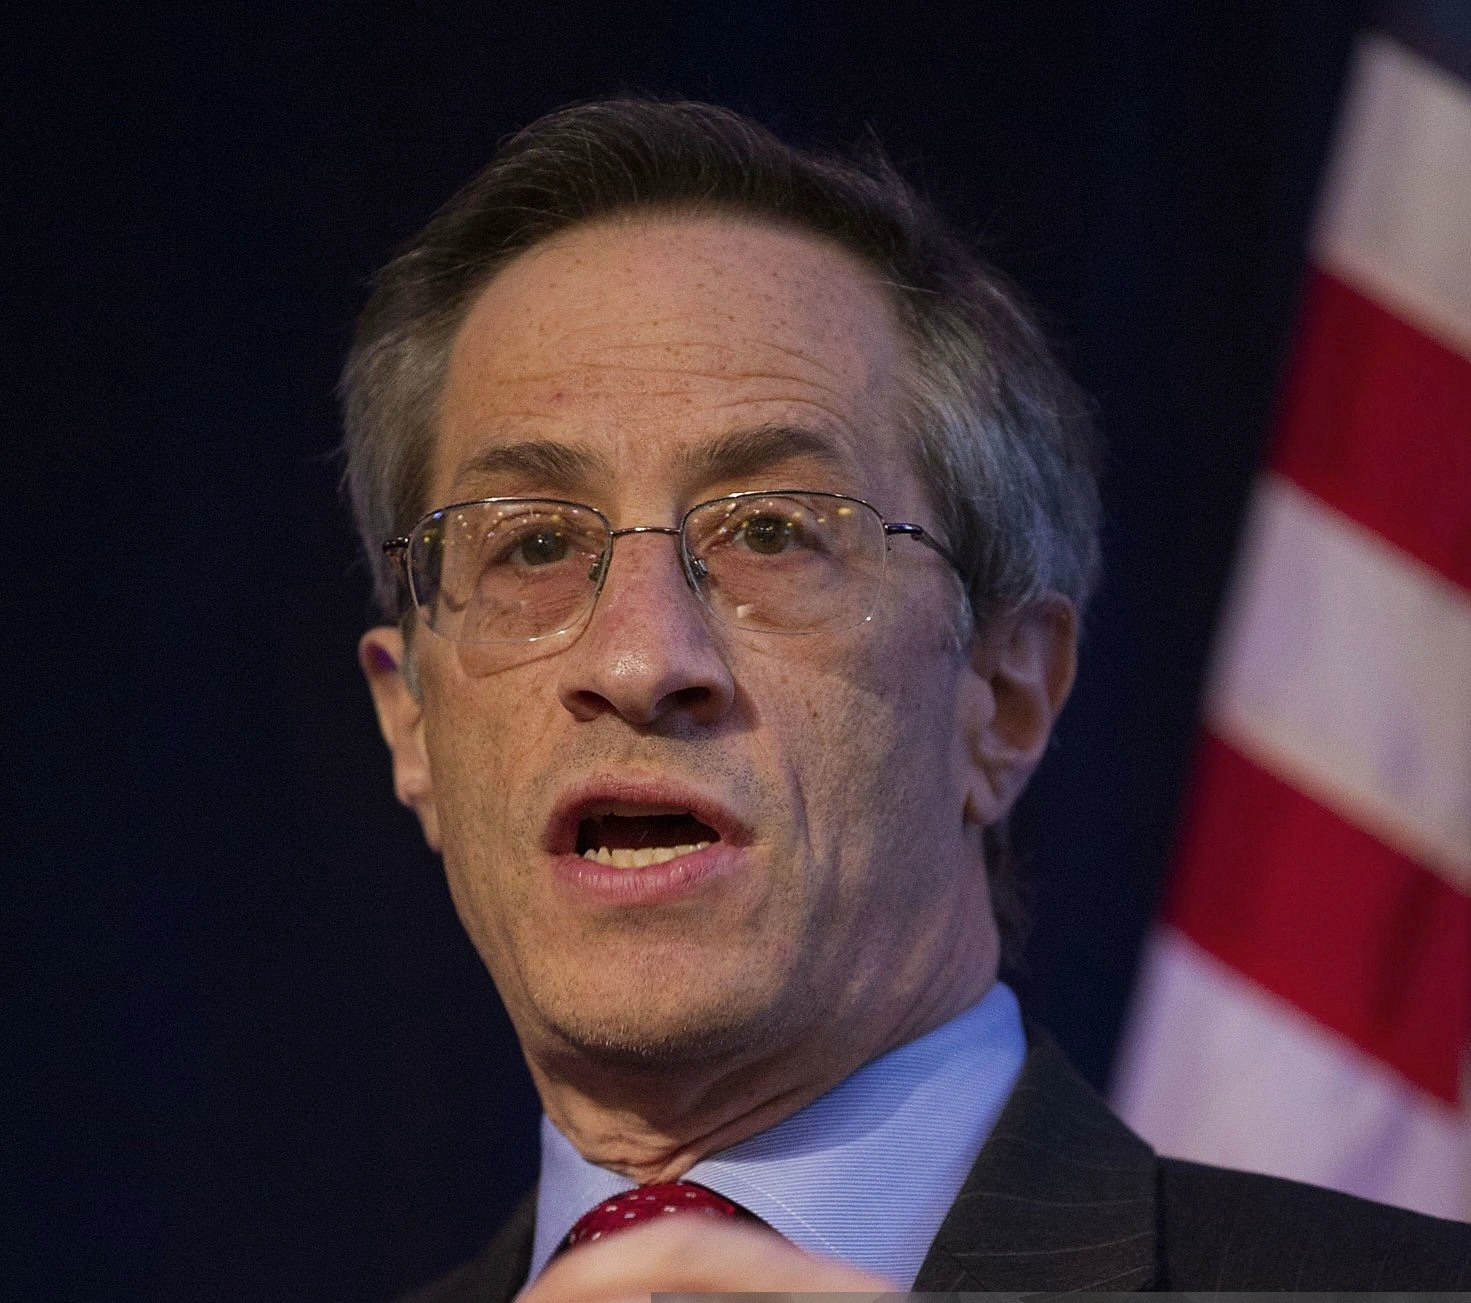
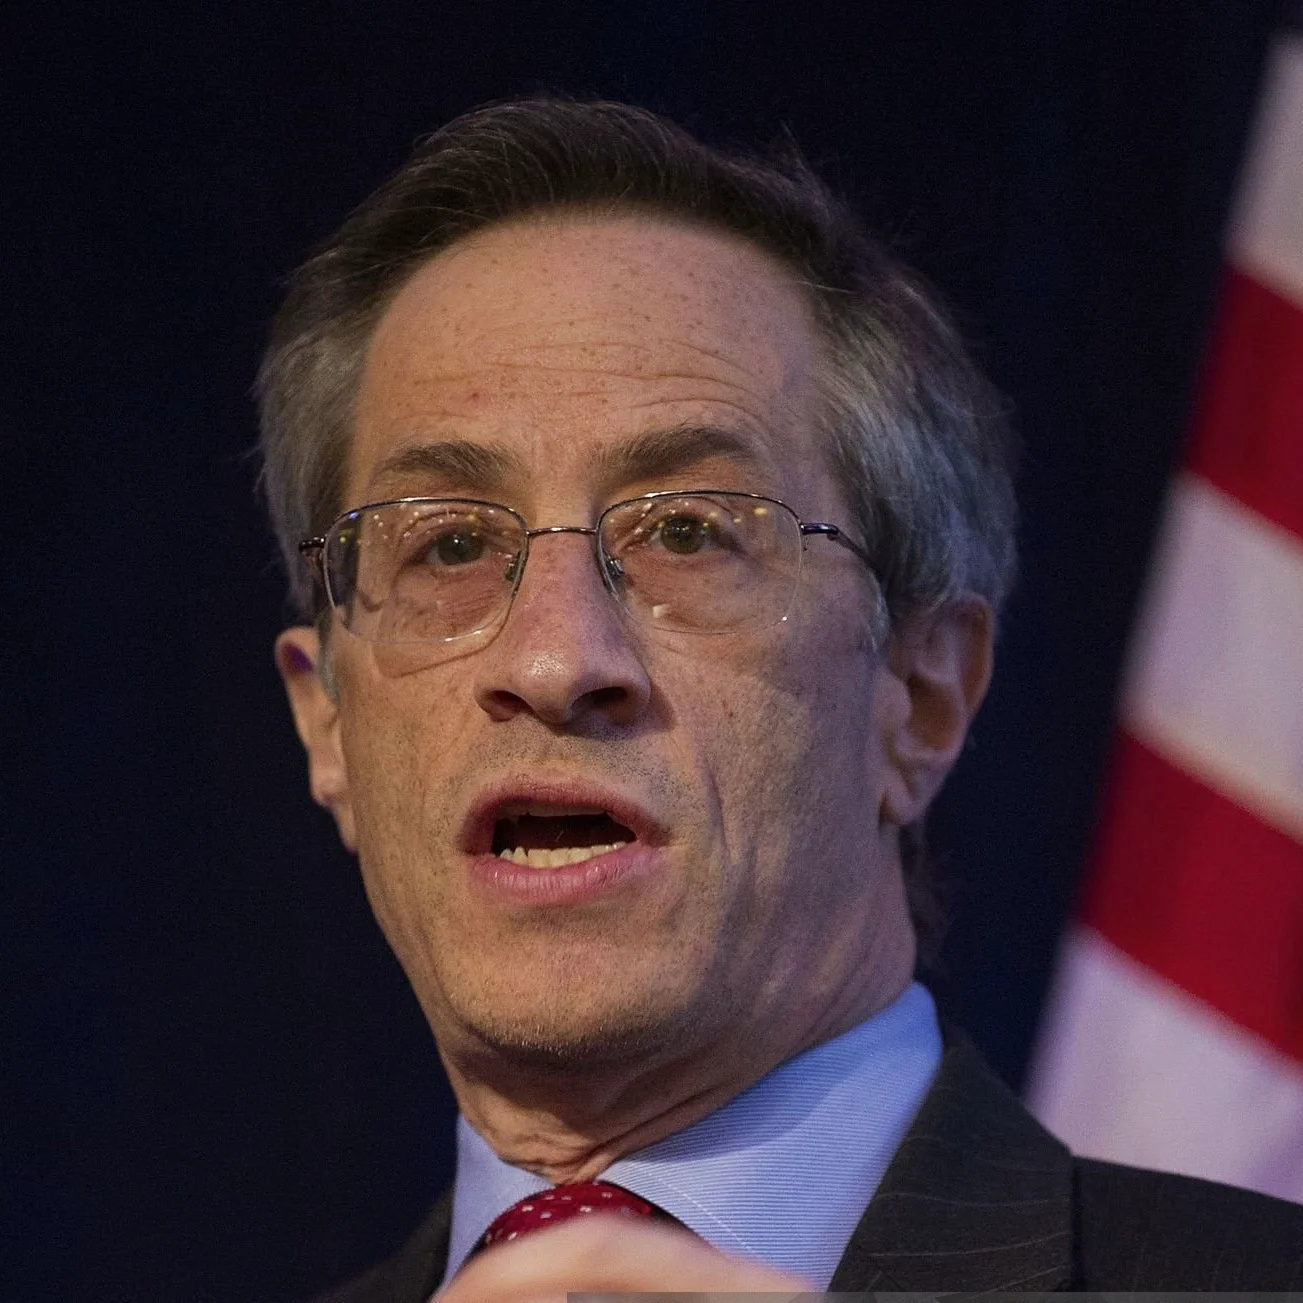
Update hero photo and player card images
- Set MEBr3.webp as top hero photo (replaces MBBS1.webp)
- Add Robert Giacovas.webp to Card 4 (replaces initials RAG)
- Add Lynn Judell.webp to Card 5 (replaces initials LEJ)
- Center-crop Alexis Kaminsky Bleich.webp to square (1000×714 → 714×714)
- Center-crop Robert Giacovas.webp to square (1471×1303 → 1303×1303)
- Enforce square aspect-ratio on all 5 player-card photo areas via CSS
- Update og:image, twitter:image, and ld+json image meta to MEBr3.webp

diff --git a/index.html b/index.html
@@ -12,7 +12,7 @@
 <meta property="og:type" content="article">
 <meta property="og:title" content="The Man Who Shorted $23 Million He Never Owned — The Bleich Files">
 <meta property="og:description" content="Public records investigation: $3M FINRA penalty, 295M naked-shorted shares, Lehman Brothers liquidity strategist now running a $578M fund. Every claim sourced.">
-<meta property="og:image" content="https://grossklein.github.io/MB3BLDDE/MBBS1.webp">
+<meta property="og:image" content="https://grossklein.github.io/MB3BLDDE/MEBr3.webp">
 <meta property="og:url" content="https://grossklein.github.io/MB3BLDDE/index.html">
 <meta property="og:site_name" content="The Bleich Files">
 
@@ -20,7 +20,7 @@
 <meta name="twitter:card" content="summary_large_image">
 <meta name="twitter:title" content="The Man Who Shorted $23 Million He Never Owned">
 <meta name="twitter:description" content="$3M FINRA penalty. 295M naked-shorted shares. Lehman Brothers liquidity strategist. $578M fund. Every claim sourced from public records.">
-<meta name="twitter:image" content="https://grossklein.github.io/MB3BLDDE/MBBS1.webp">
+<meta name="twitter:image" content="https://grossklein.github.io/MB3BLDDE/MEBr3.webp">
 
   <link rel="stylesheet" href="styles.css">
 <link rel="preconnect" href="https://fonts.googleapis.com">
@@ -39,7 +39,7 @@
   "publisher": { "@type": "Organization", "name": "The Bleich Files" },
   "datePublished": "2026-04-03",
   "dateModified": "2026-04-03",
-  "image": "https://grossklein.github.io/MB3BLDDE/MBBS1.webp",
+  "image": "https://grossklein.github.io/MB3BLDDE/MEBr3.webp",
   "mainEntityOfPage": "https://grossklein.github.io/MB3BLDDE/index.html"
 }
 </script>
@@ -152,7 +152,7 @@
     <!-- HERO IMAGE — full width -->
     <div class="hero-photo-full">
       <div class="photo-area photo-area-img">
-        <img src="MBBS1.webp" alt="Michael E. Bleich — $3,000,000 NASDAQ Fine, Sanctioned, The Naked Short" class="subject-photo" width="2048" height="1143" loading="eager">
+        <img src="MEBr3.webp" alt="Michael E. Bleich — $3,000,000 NASDAQ Fine, Sanctioned, The Naked Short" class="subject-photo" width="1221" height="589" loading="eager">
       </div>
       <div class="photo-caption">
         <strong>Michael E. Bleich</strong> · CIO &amp; Indirect Owner, EntryPoint Capital LLC ·
@@ -716,7 +716,7 @@
     <!-- CARD 3: Alexis K. Bleich — Unrated -->
     <div class="player-card player-unrated">
       <div class="player-photo player-photo-img">
-        <img src="Alexis Kaminsky Bleich.webp" alt="Alexis K. Bleich" class="player-photo-real" width="1000" height="714" loading="lazy">
+        <img src="Alexis Kaminsky Bleich.webp" alt="Alexis K. Bleich" class="player-photo-real" width="714" height="714" loading="lazy">
         <div class="player-photo-tag">Co-Plaintiff</div>
         <div class="player-risk-badge badge-unrated">○ Unrated</div>
       </div>
@@ -740,11 +740,11 @@
 
     <!-- CARD 4: Robert A. Giacovas — SEVERE -->
     <div class="player-card player-severe">
-      <a href="https://www.zoominfo.com/p/Robert-Giacovas/10722287" class="player-photo player-photo-link" target="_blank" rel="noopener">
-        <div class="player-initials">RAG</div>
+      <div class="player-photo player-photo-img">
+        <img src="Robert Giacovas.webp" alt="Robert A. Giacovas" class="player-photo-real" width="1303" height="1303" loading="lazy">
         <div class="player-photo-tag">NJ PHV INELIGIBLE</div>
         <div class="player-risk-badge badge-severe">⬛ Severe</div>
-      </a>
+      </div>
       <div class="player-body">
         <div class="player-name"><a href="https://www.linkedin.com/in/robert-a-giacovas-08859196" class="player-name-link" target="_blank" rel="noopener">Robert A. Giacovas ↗</a></div>
         <div class="player-role">Lead Counsel for Bleich · Founding Partner, Lazare Potter Giacovas &amp; Moyle LLP · Gen. Counsel, Squarepoint Capital</div>
@@ -766,11 +766,11 @@
 
     <!-- CARD 5: Lynn Ellen Judell — SEVERE -->
     <div class="player-card player-severe">
-      <a href="https://rukabbrash.com/lynn-judell" class="player-photo player-photo-link" target="_blank" rel="noopener">
-        <div class="player-initials">LEJ</div>
+      <div class="player-photo player-photo-img">
+        <img src="Lynn Judell.webp" alt="Lynn Ellen Judell" class="player-photo-real" width="1131" height="1131" loading="lazy">
         <div class="player-photo-tag player-photo-tag-alert">CA BAR: SUSPENDED</div>
         <div class="player-risk-badge badge-severe">⬛ Severe</div>
-      </a>
+      </div>
       <div class="player-body">
         <div class="player-name"><a href="https://rukabbrash.com/lynn-judell" class="player-name-link" target="_blank" rel="noopener">Lynn Ellen Judell ↗</a></div>
         <div class="player-role">Co-Counsel for Bleich · Counsel, Rukab Brash PLLC</div>

diff --git a/styles.css b/styles.css
@@ -1091,10 +1091,16 @@ a.stamp.stamp-public:hover {
   overflow: hidden;
   flex-shrink: 0;
   min-height: 160px;
-}/* Cards with real photo: height from image */
+}/* Cards with real photo: square aspect ratio */
 .player-photo.player-photo-img {
   display: block;
   min-height: 0;
+  aspect-ratio: 1 / 1;
+  overflow: hidden;
+}
+/* Initials-only cards: also square */
+.player-photo:not(.player-photo-img) {
+  aspect-ratio: 1 / 1;
 }
 .player-photo::before {
   content: '';
@@ -1762,8 +1768,10 @@ a.stamp.stamp-public:hover {
   filter: grayscale(0%) contrast(1.05);
 }.player-photo-real {
   width: 100%;
-  height: auto;
+  height: 100%;
   display: block;
+  object-fit: cover;
+  object-position: center top;
   filter: grayscale(40%) contrast(1.1);
   transition: filter 0.3s ease;
 }.player-photo-img:hover .player-photo-real {
